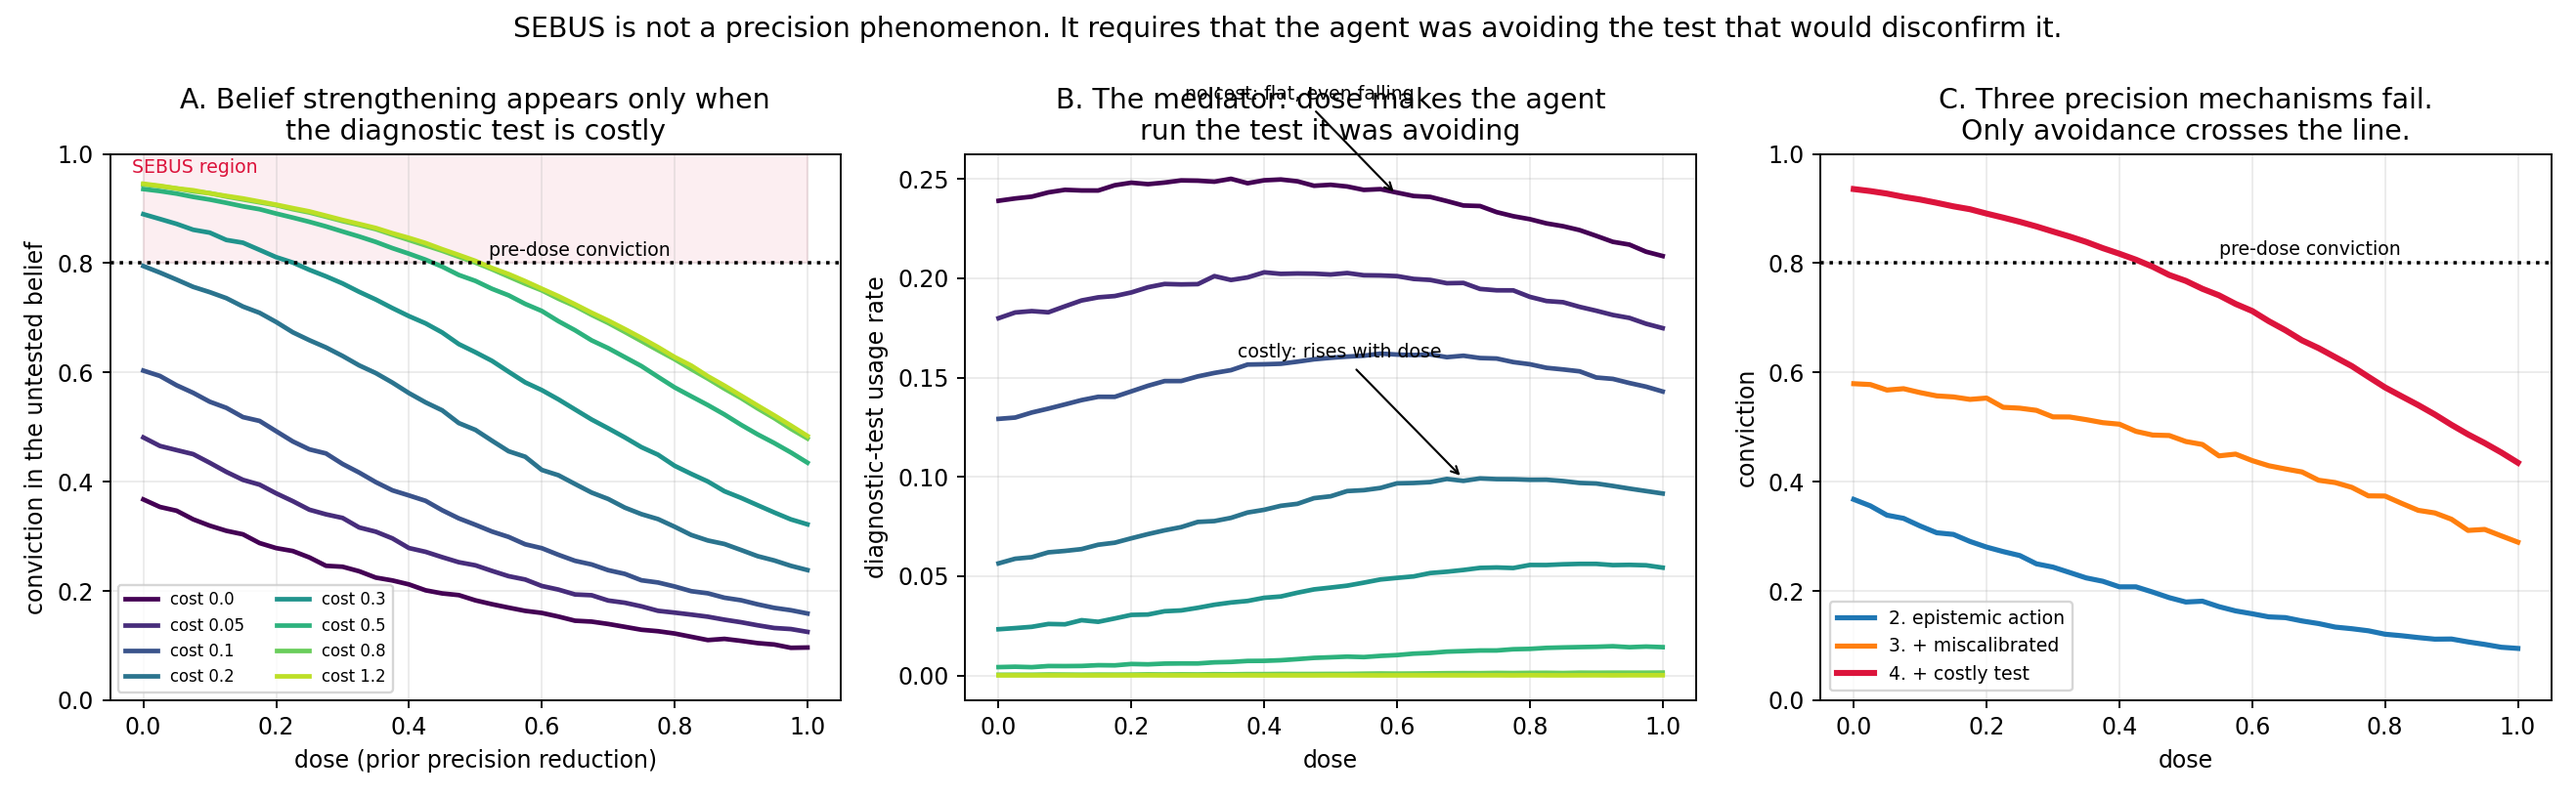
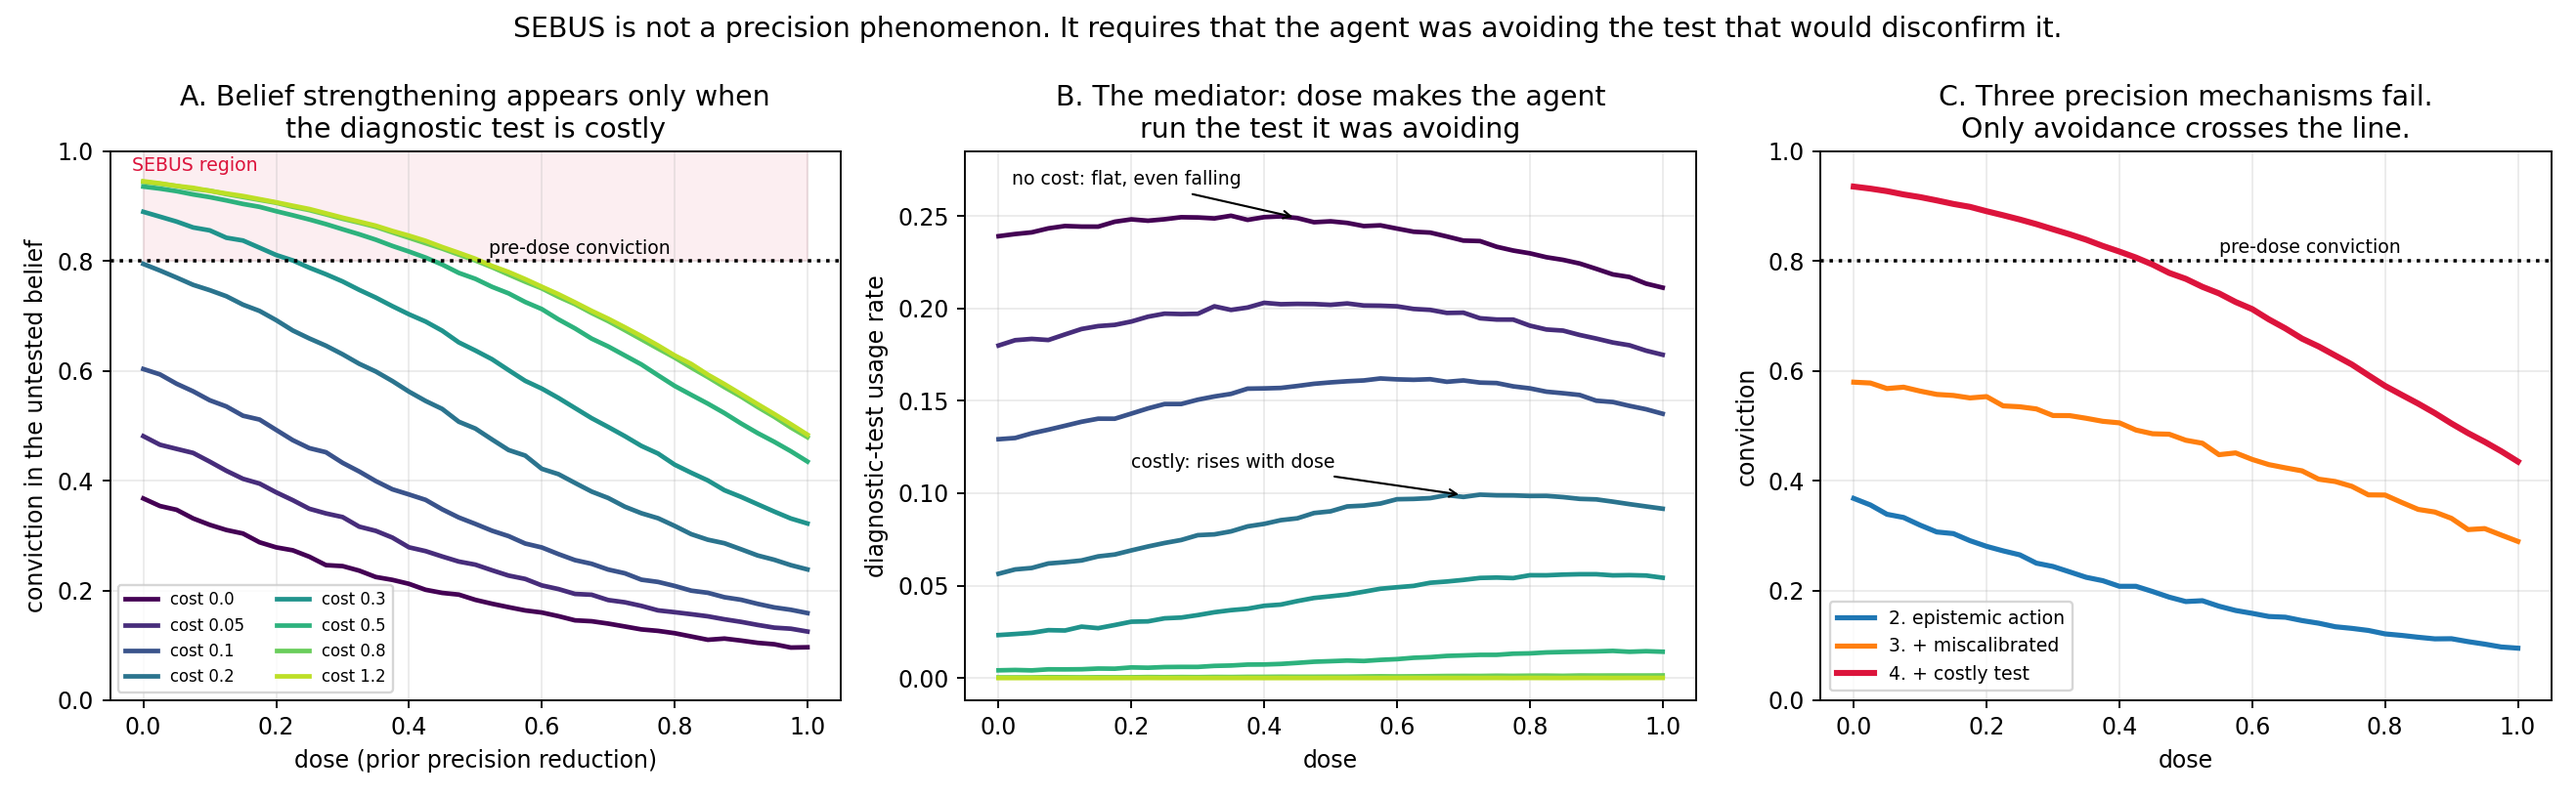
Fix figure_acting: move panel B annotations inside the axes, off the curves

diff --git a/figure3.py b/figure3.py
@@ -23,9 +23,10 @@ for c,col in zip(COSTS,cm):
     ax[1].plot(DO,[d["grid"][f"{c}|{dd}"]["deep_rate"] for dd in DO],lw=2,color=col)
 ax[1].set_title("B. The mediator: dose makes the agent\nrun the test it was avoiding")
 ax[1].set_xlabel("dose"); ax[1].set_ylabel("diagnostic-test usage rate"); ax[1].grid(alpha=.25)
-ax[1].annotate("no cost: flat, even falling",xy=(.6,.242),xytext=(.28,.29),fontsize=8,
+ax[1].set_ylim(-0.012,0.285)
+ax[1].annotate("no cost: flat, even falling",xy=(.45,.249),xytext=(.02,.267),fontsize=8,
     arrowprops=dict(arrowstyle="->",lw=.9))
-ax[1].annotate("costly: rises with dose",xy=(.7,.099),xytext=(.36,.16),fontsize=8,
+ax[1].annotate("costly: rises with dose",xy=(.7,.099),xytext=(.2,.114),fontsize=8,
     arrowprops=dict(arrowstyle="->",lw=.9))
 
 G="3.0"; b3=0.8007
